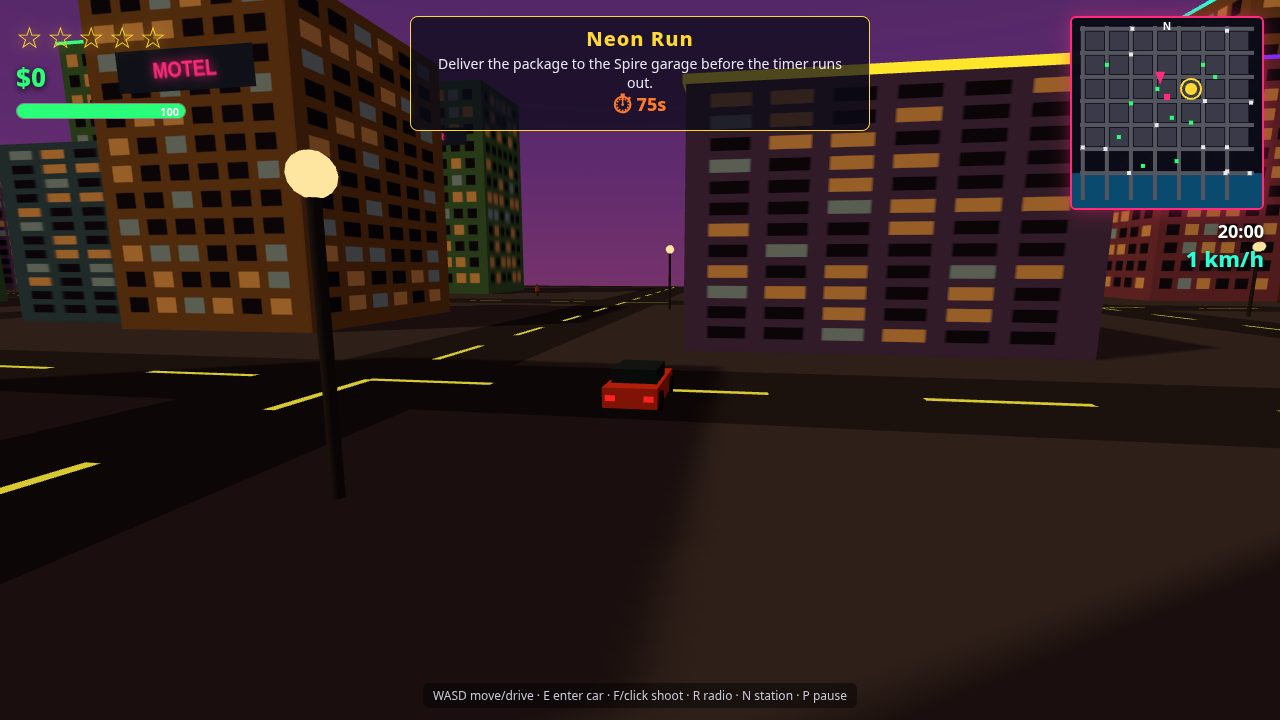
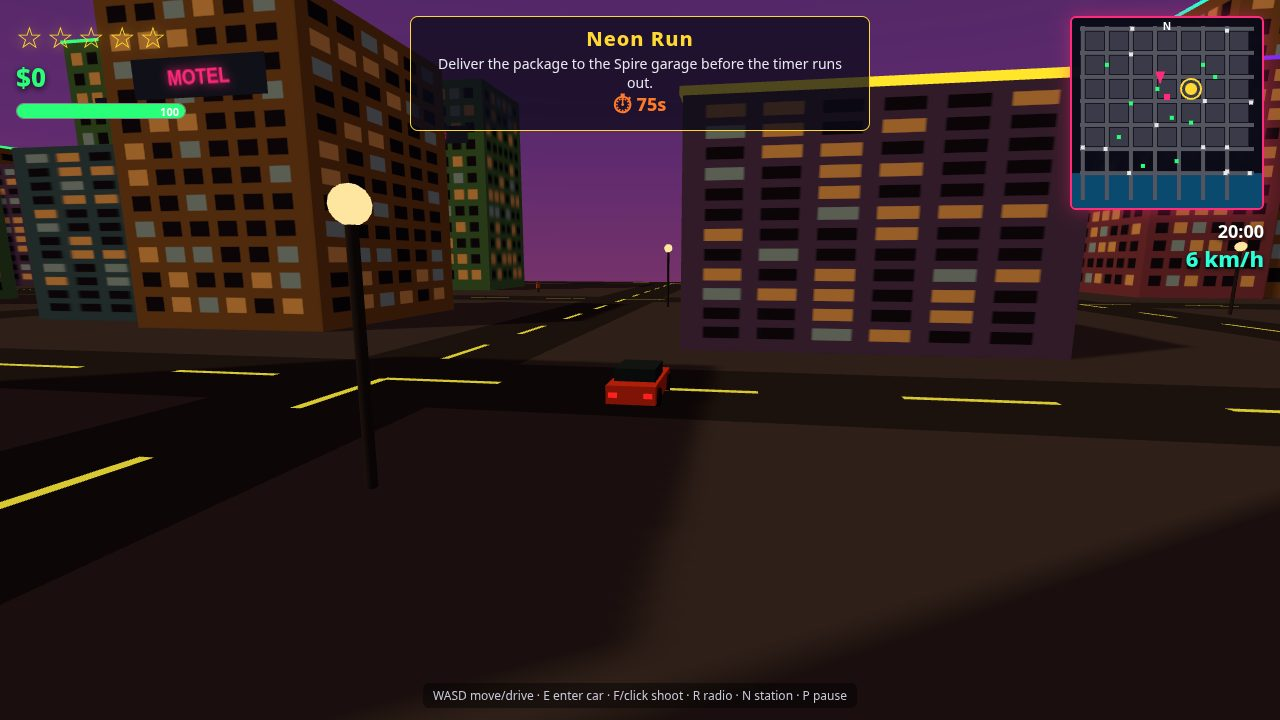
Camera: heli in-frame (forward orbit, 22m, lookUp), city shot on street facing Spire

diff --git a/game/src/police.js b/game/src/police.js
@@ -68,10 +68,10 @@ function buildHeliMesh() {
   group.add(light);
   group.add(lightTarget);
   const cone = new THREE.Mesh(
-    new THREE.ConeGeometry(7, 34, 16, 1, true),
+    new THREE.ConeGeometry(7, 22, 16, 1, true),
     new THREE.MeshBasicMaterial({ color: 0xfff2b0, transparent: true, opacity: 0.13, side: THREE.DoubleSide, depthWrite: false }),
   );
-  cone.position.y = -18;
+  cone.position.y = -11.5;
   cone.rotation.x = Math.PI;
   cone.name = 'beam';
   group.add(cone);
@@ -179,7 +179,7 @@ export class PoliceSystem {
     unit.placed = true;
   }
 
-  update(dt, playerPos, playerSpeed, inCar) {
+  update(dt, playerPos, playerAngle, playerSpeed, inCar) {
     // Heat decay when the player is not actively committing crimes.
     if (this.wanted > 0) {
       this.decayTimer -= dt;
@@ -251,17 +251,20 @@ export class PoliceSystem {
       if (bar) bar.material.color.setHex(Math.floor(performance.now() / 300) % 2 === 0 ? 0xff2040 : 0x2040ff);
     }
 
-    // Helicopter: orbits above the player, searchlight pinned on them.
+    // Helicopter: orbits in the hemisphere AHEAD of the player, so it stays
+    // in the camera's view, searchlight pinned on them. Low (22 m) so the
+    // tilted-up camera keeps it in frame.
     if (this.heli) {
-      this.heliAngle += dt * 0.45;
-      const hx = playerPos.x + Math.sin(this.heliAngle) * 26;
-      const hz = playerPos.z + Math.cos(this.heliAngle) * 26;
-      this.heli.position.set(hx, 42, hz);
+      this.heliAngle += dt * 0.35;
+      const baseAngle = playerAngle + Math.sin(this.heliAngle) * 1.0;
+      const hx = playerPos.x + Math.sin(baseAngle) * 18;
+      const hz = playerPos.z + Math.cos(baseAngle) * 18;
+      this.heli.position.set(hx, 22, hz);
       this.heli.rotation.y = Math.atan2(playerPos.x - hx, playerPos.z - hz);
       this.heli.userData.rotor.rotation.y += dt * 28;
       this.heli.userData.tailRotor.rotation.z += dt * 30;
       const target = this.heli.userData.lightTarget;
-      target.position.set(playerPos.x - hx, -42, playerPos.z - hz);
+      target.position.set(playerPos.x - hx, -22, playerPos.z - hz);
       target.updateMatrixWorld();
       // The beam cone follows the same line.
       const beam = this.heli.getObjectByName('beam');

diff --git a/game/src/main.js b/game/src/main.js
@@ -225,7 +225,13 @@ class Game {
 
   // Stage a screenshot scene: mission / heli / radio / city.
   _applyScene(scene) {
-    if (scene === 'mission') {
+    if (scene === 'city') {
+      // Stand on the north road facing the Spire: street, traffic, towers.
+      this.player.pos.set(-30, 0, 60);
+      this.player.mesh.position.copy(this.player.pos);
+      this.player.camAngle = Math.PI;
+      this.player.angle = Math.PI;
+    } else if (scene === 'mission') {
       this.missions.setIndex(2);
       this.hud.setMission(this.missions.current);
       this.player.pos.set(-20, 0, -90);
@@ -467,7 +473,7 @@ class Game {
       this.audio.setEngine(0, false);
     }
     this.player.updateCameraAngle(dt);
-    this.player.updateCamera(dt, this.camera);
+    this.player.updateCamera(dt, this.camera, this.police.heli ? 7 : 0);
     if (this.shake > 0) {
       this.shake = Math.max(0, this.shake - dt);
       this.camera.position.x += (Math.random() - 0.5) * this.shake;
@@ -478,7 +484,7 @@ class Game {
     const playerSpeed = this.player.inCar ? Math.abs(this.player.inCar.speed) : this.player.speed;
     this.traffic.update(dt, this.player.inCar ? this.player.pos : null);
     this.peds.update(dt, { x: this.player.pos.x, z: this.player.pos.z, speed: playerSpeed }, this.police.wanted);
-    this.police.update(dt, this.player.pos, playerSpeed, !!this.player.inCar);
+    this.police.update(dt, this.player.pos, this.player.angle, playerSpeed, !!this.player.inCar);
     this.audio.setSiren(this.police.wanted > 0);
     const reward = this.missions.update(dt, this.player.pos, !!this.player.inCar, this.police.wanted);
     if (reward) this.hud.setMission(this.missions.current);

diff --git a/game/src/player.js b/game/src/player.js
@@ -98,10 +98,12 @@ export class Player {
   }
 
   // Third-person camera: behind and above the player/car, smoothed.
-  updateCamera(dt, camera) {
+  // lookUp lifts the view toward the sky (used when the police helicopter
+  // is hunting the player, so the heli stays in frame).
+  updateCamera(dt, camera, lookUp = 0) {
     const target = this.inCar ? this.inCar : this;
-    const dist = this.inCar ? 11 : 8;
-    const height = this.inCar ? 4.6 : 3.6;
+    const dist = this.inCar ? 12 : 9.5;
+    const height = this.inCar ? 5.2 : 4.2;
     // Camera follows behind the movement heading on foot, behind the car when driving.
     const followAngle = this.inCar ? this.inCar.angle : this.camAngle;
     const desired = new THREE.Vector3(
@@ -110,7 +112,7 @@ export class Player {
       target.pos.z - Math.cos(followAngle) * dist,
     );
     camera.position.lerp(desired, Math.min(1, dt * 5));
-    camera.lookAt(target.pos.x, 1.6, target.pos.z + (this.inCar ? Math.sin(this.inCar.angle) * 2 : 0));
+    camera.lookAt(target.pos.x, 1.6 + lookUp, target.pos.z + (this.inCar ? Math.sin(this.inCar.angle) * 2 : 0));
   }
 
   // On foot the camera eases behind the direction the player walks in,
